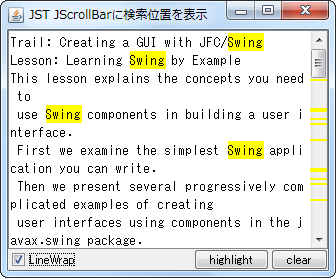
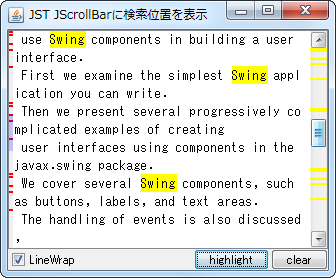
Add MatteBorder search highlighter example

diff --git a/ScrollBarSearchHighlighter/src/java/example/MainPanel.java b/ScrollBarSearchHighlighter/src/java/example/MainPanel.java
@@ -42,10 +42,11 @@ public class MainPanel extends JPanel {
     public MainPanel() {
         super(new BorderLayout());
         //textArea.setLineWrap(true);
-        textArea.setEditable(false);
+        //textArea.setEditable(false);
         textArea.setText(initTxt+initTxt+initTxt);
 
-        JScrollBar scrollbar = new JScrollBar(JScrollBar.VERTICAL);
+        final JScrollPane scroll = new JScrollPane(textArea);
+        final JScrollBar scrollbar = new JScrollBar(JScrollBar.VERTICAL);
         scrollbar.setUnitIncrement(10);
 
         if(scrollbar.getUI() instanceof WindowsScrollBarUI) {
@@ -54,29 +55,7 @@ public class MainPanel extends JPanel {
                     super.paintTrack(g, c, trackBounds);
 
                     Rectangle rect   = textArea.getBounds();
-                    Dimension sbSize = scrollbar.getSize();
-                    Insets sbInsets  = scrollbar.getInsets();
-                    int itemW = sbSize.width - sbInsets.left - sbInsets.right;
-                    //boolean squareButtons = DefaultLookup.getBoolean(scrollbar, this, "ScrollBar.squareButtons", false);
-                    boolean squareButtons = UIManager.getBoolean("ScrollBar.squareButtons");
-                    int decrButtonH = squareButtons ? itemW : decrButton.getPreferredSize().height;
-                    int decrButtonY = sbInsets.top;
-                    int incrButtonH = squareButtons ? itemW : incrButton.getPreferredSize().height;
-                    int incrButtonY = sbSize.height - sbInsets.bottom - incrButtonH;
-
-                    if(DEBUG) {
-                        g.setColor(Color.RED);
-                        g.fillRect(trackBounds.x, decrButtonY + decrButtonH, trackBounds.width, 2);
-                        g.fillRect(trackBounds.x, incrButtonY - 2,           trackBounds.width, 2);
-
-                        System.out.format("t: %d%n", decrButtonY + decrButtonH);
-                        System.out.format("b: %d%n", incrButtonY - 2);
-                        System.out.println(trackBounds.height - decrButtonH - incrButtonH);
-                        System.out.println(incrButtonY - decrButtonH - decrButtonY);
-                        System.out.println(rect.height);
-                    }
-
-                    double sy = (incrButtonY - decrButtonH - decrButtonY) / rect.getHeight();
+                    double sy = trackBounds.getHeight() / rect.getHeight();
                     AffineTransform at = AffineTransform.getScaleInstance(1.0, sy);
                     g.setColor(Color.YELLOW);
                     Document doc = textArea.getDocument();
@@ -88,7 +67,7 @@ public class MainPanel extends JPanel {
                             Rectangle r = textArea.modelToView(pos);
                             Rectangle s = at.createTransformedShape(r).getBounds();
                             int h = 2; //Math.max(2, s.height-2);
-                            g.fillRect(trackBounds.x, decrButtonH+s.y, trackBounds.width, h);
+                            g.fillRect(trackBounds.x, trackBounds.y+s.y, trackBounds.width, h);
                         }
                     }catch(BadLocationException e) {
                         e.printStackTrace();
@@ -101,29 +80,7 @@ public class MainPanel extends JPanel {
                     super.paintTrack(g, c, trackBounds);
 
                     Rectangle rect   = textArea.getBounds();
-                    Dimension sbSize = scrollbar.getSize();
-                    Insets sbInsets  = scrollbar.getInsets();
-                    int itemW = sbSize.width - sbInsets.left - sbInsets.right;
-                    //boolean squareButtons = DefaultLookup.getBoolean(scrollbar, this, "ScrollBar.squareButtons", false);
-                    boolean squareButtons = UIManager.getBoolean("ScrollBar.squareButtons");
-                    int decrButtonH = squareButtons ? itemW : decrButton.getPreferredSize().height;
-                    int decrButtonY = sbInsets.top;
-                    int incrButtonH = squareButtons ? itemW : incrButton.getPreferredSize().height;
-                    int incrButtonY = sbSize.height - sbInsets.bottom - incrButtonH;
-
-                    if(DEBUG) {
-                        g.setColor(Color.RED);
-                        g.fillRect(trackBounds.x, decrButtonY + decrButtonH, trackBounds.width, 2);
-                        g.fillRect(trackBounds.x, incrButtonY - 2,           trackBounds.width, 2);
-
-                        System.out.format("t: %d%n", decrButtonY + decrButtonH);
-                        System.out.format("b: %d%n", incrButtonY - 2);
-                        System.out.println(trackBounds.height - decrButtonH - incrButtonH);
-                        System.out.println(incrButtonY - decrButtonH - decrButtonY);
-                        System.out.println(rect.height);
-                    }
-
-                    double sy = (incrButtonY - decrButtonH - decrButtonY) / rect.getHeight();
+                    double sy = trackBounds.getHeight() / rect.getHeight();
                     AffineTransform at = AffineTransform.getScaleInstance(1.0, sy);
                     g.setColor(Color.YELLOW);
                     Document doc = textArea.getDocument();
@@ -135,7 +92,7 @@ public class MainPanel extends JPanel {
                             Rectangle r = textArea.modelToView(pos);
                             Rectangle s = at.createTransformedShape(r).getBounds();
                             int h = 2; //Math.max(2, s.height-2);
-                            g.fillRect(trackBounds.x, decrButtonH+s.y, trackBounds.width, h);
+                            g.fillRect(trackBounds.x, trackBounds.y+s.y, trackBounds.width, h);
                         }
                     }catch(BadLocationException e) {
                         e.printStackTrace();
@@ -144,8 +101,53 @@ public class MainPanel extends JPanel {
             });
         }
 
-        JScrollPane scroll = new JScrollPane(textArea);
+        JLabel label = new JLabel();
+        label.setBorder(BorderFactory.createMatteBorder(0, 4, 0, 0, new Icon() {
+            private final Color THUMB_COLOR = new Color(0,0,255,50);
+            @Override public void paintIcon(Component c, Graphics g, int x, int y) {
+                if(poslist.isEmpty()) return;
+
+                Rectangle rect   = textArea.getBounds();
+                Dimension sbSize = scrollbar.getSize();
+                Insets sbInsets  = scrollbar.getInsets();
+                double sy = (sbSize.height - sbInsets.top - sbInsets.bottom) / rect.getHeight();
+                AffineTransform at = AffineTransform.getScaleInstance(1.0, sy);
+                g.setColor(Color.RED);
+                Document doc = textArea.getDocument();
+                Element root = doc.getDefaultRootElement();
+                try{
+                    for(Integer pos: poslist) {
+                        int index = root.getElementIndex(pos);
+                        Element elem = root.getElement(index);
+                        Rectangle r = textArea.modelToView(pos);
+                        Rectangle s = at.createTransformedShape(r).getBounds();
+                        int h = 2; //Math.max(2, s.height-2);
+                        g.fillRect(x, y+sbInsets.top+s.y, getIconWidth(), h);
+                    }
+
+                    //paint Thumb
+                    JViewport vport = scroll.getViewport();
+                    Rectangle vrect = c.getBounds();
+                    vrect.y = vport.getViewPosition().y;
+                    g.setColor(THUMB_COLOR);
+                    Rectangle rr = at.createTransformedShape(vrect).getBounds();
+                    g.fillRect(x, y+sbInsets.top+rr.y, getIconWidth(), rr.height);
+                }catch(BadLocationException e) {
+                    e.printStackTrace();
+                }
+            }
+            @Override public int getIconWidth() {
+                return 4;
+            }
+            @Override public int getIconHeight() {
+                return scrollbar.getHeight();
+            }
+        }));
+
         scroll.setVerticalScrollBar(scrollbar);
+        JViewport vp = new JViewport();
+        vp.setView(label);
+        scroll.setRowHeader(vp);
         add(scroll);
 
         Box box = Box.createHorizontalBox();
